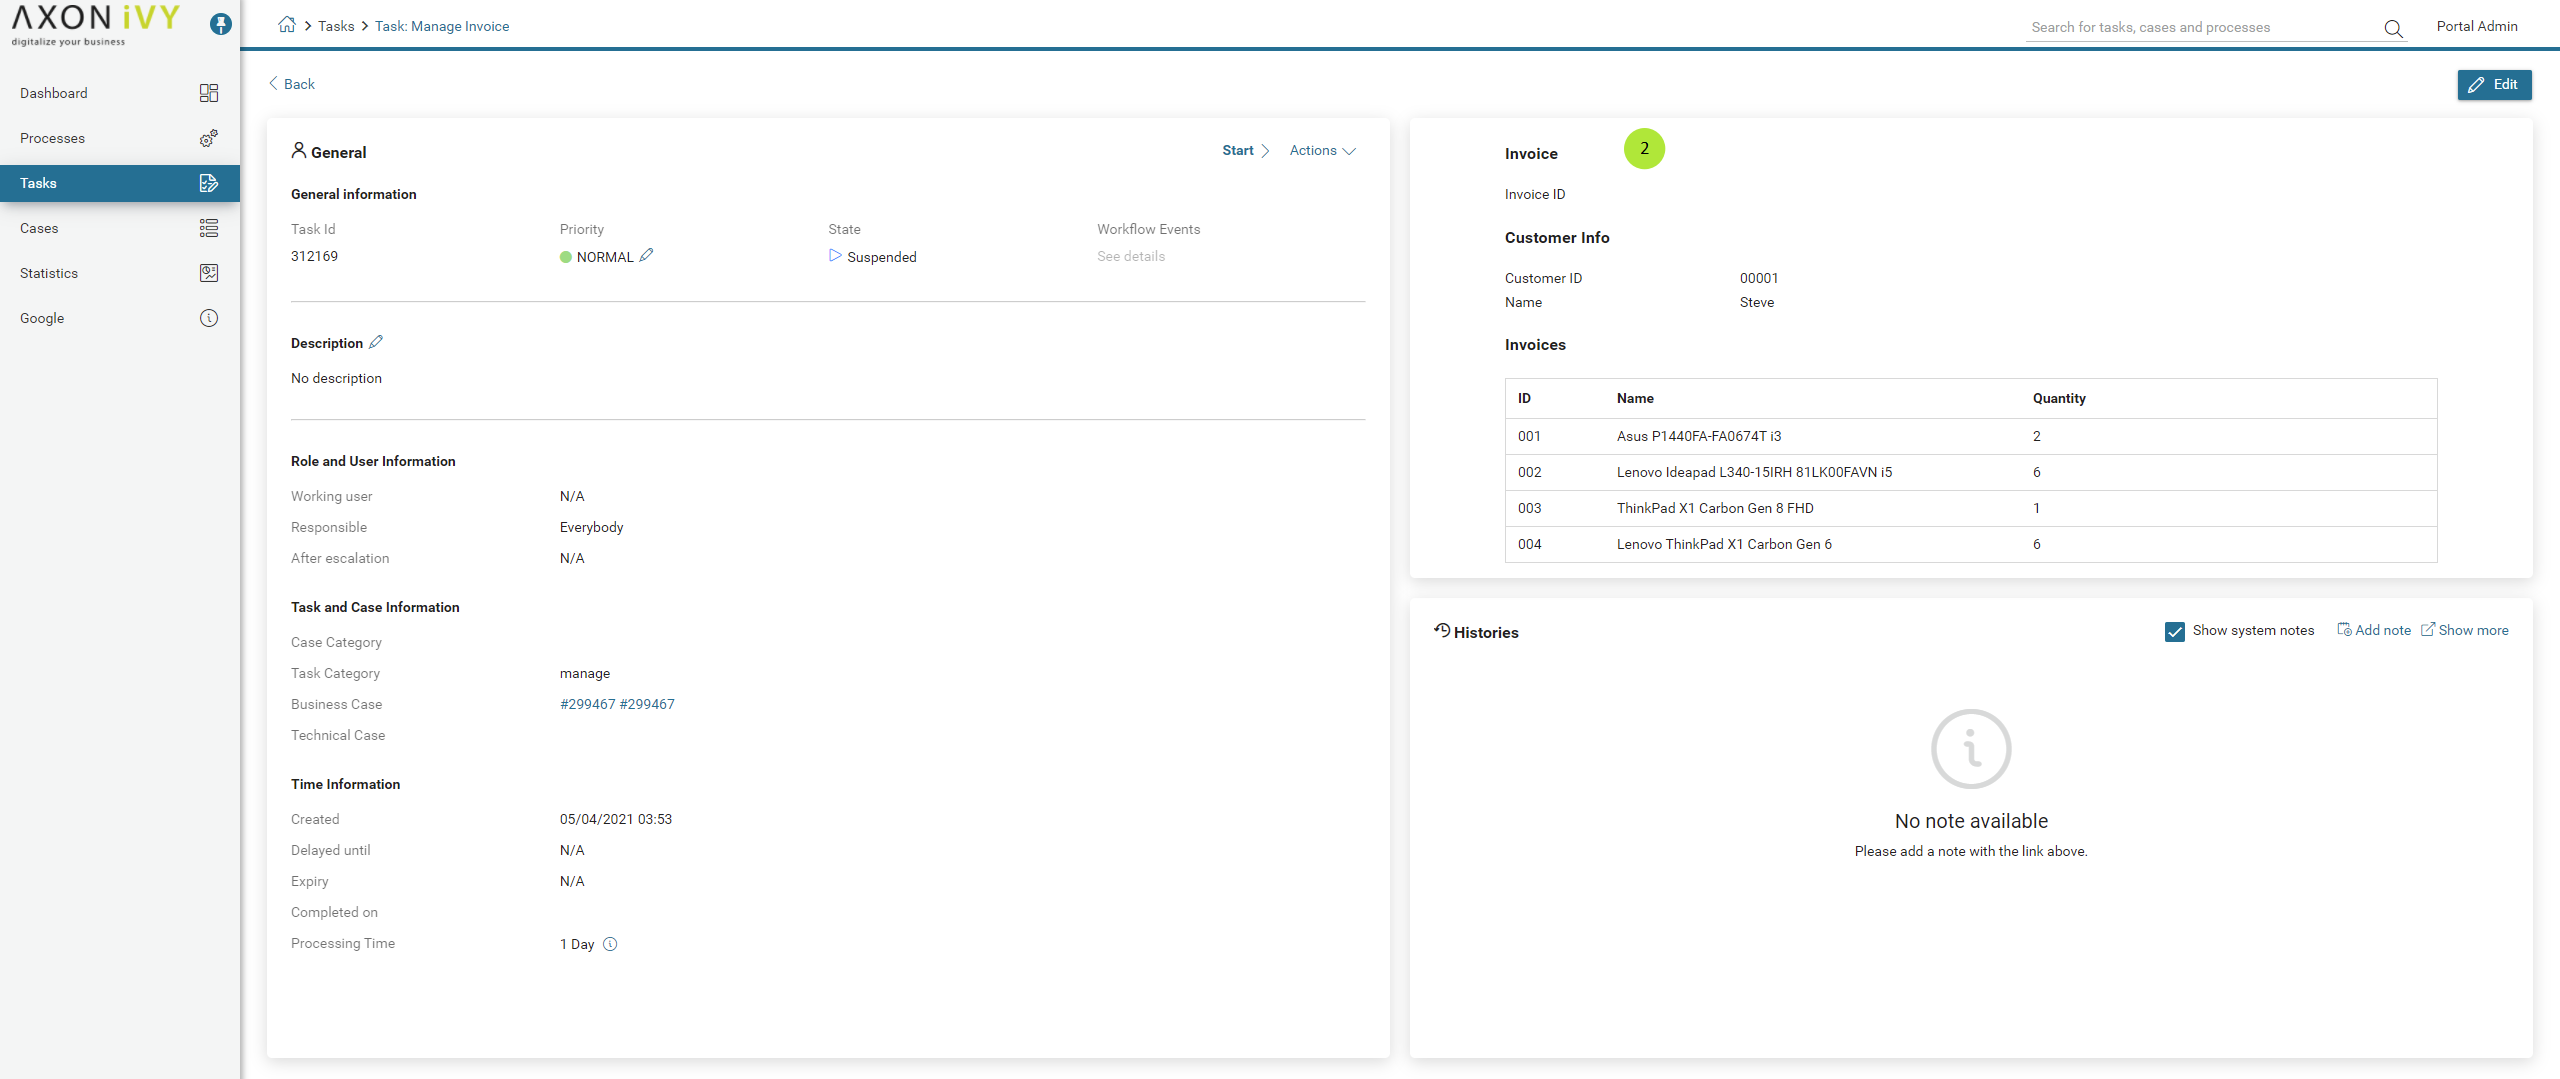
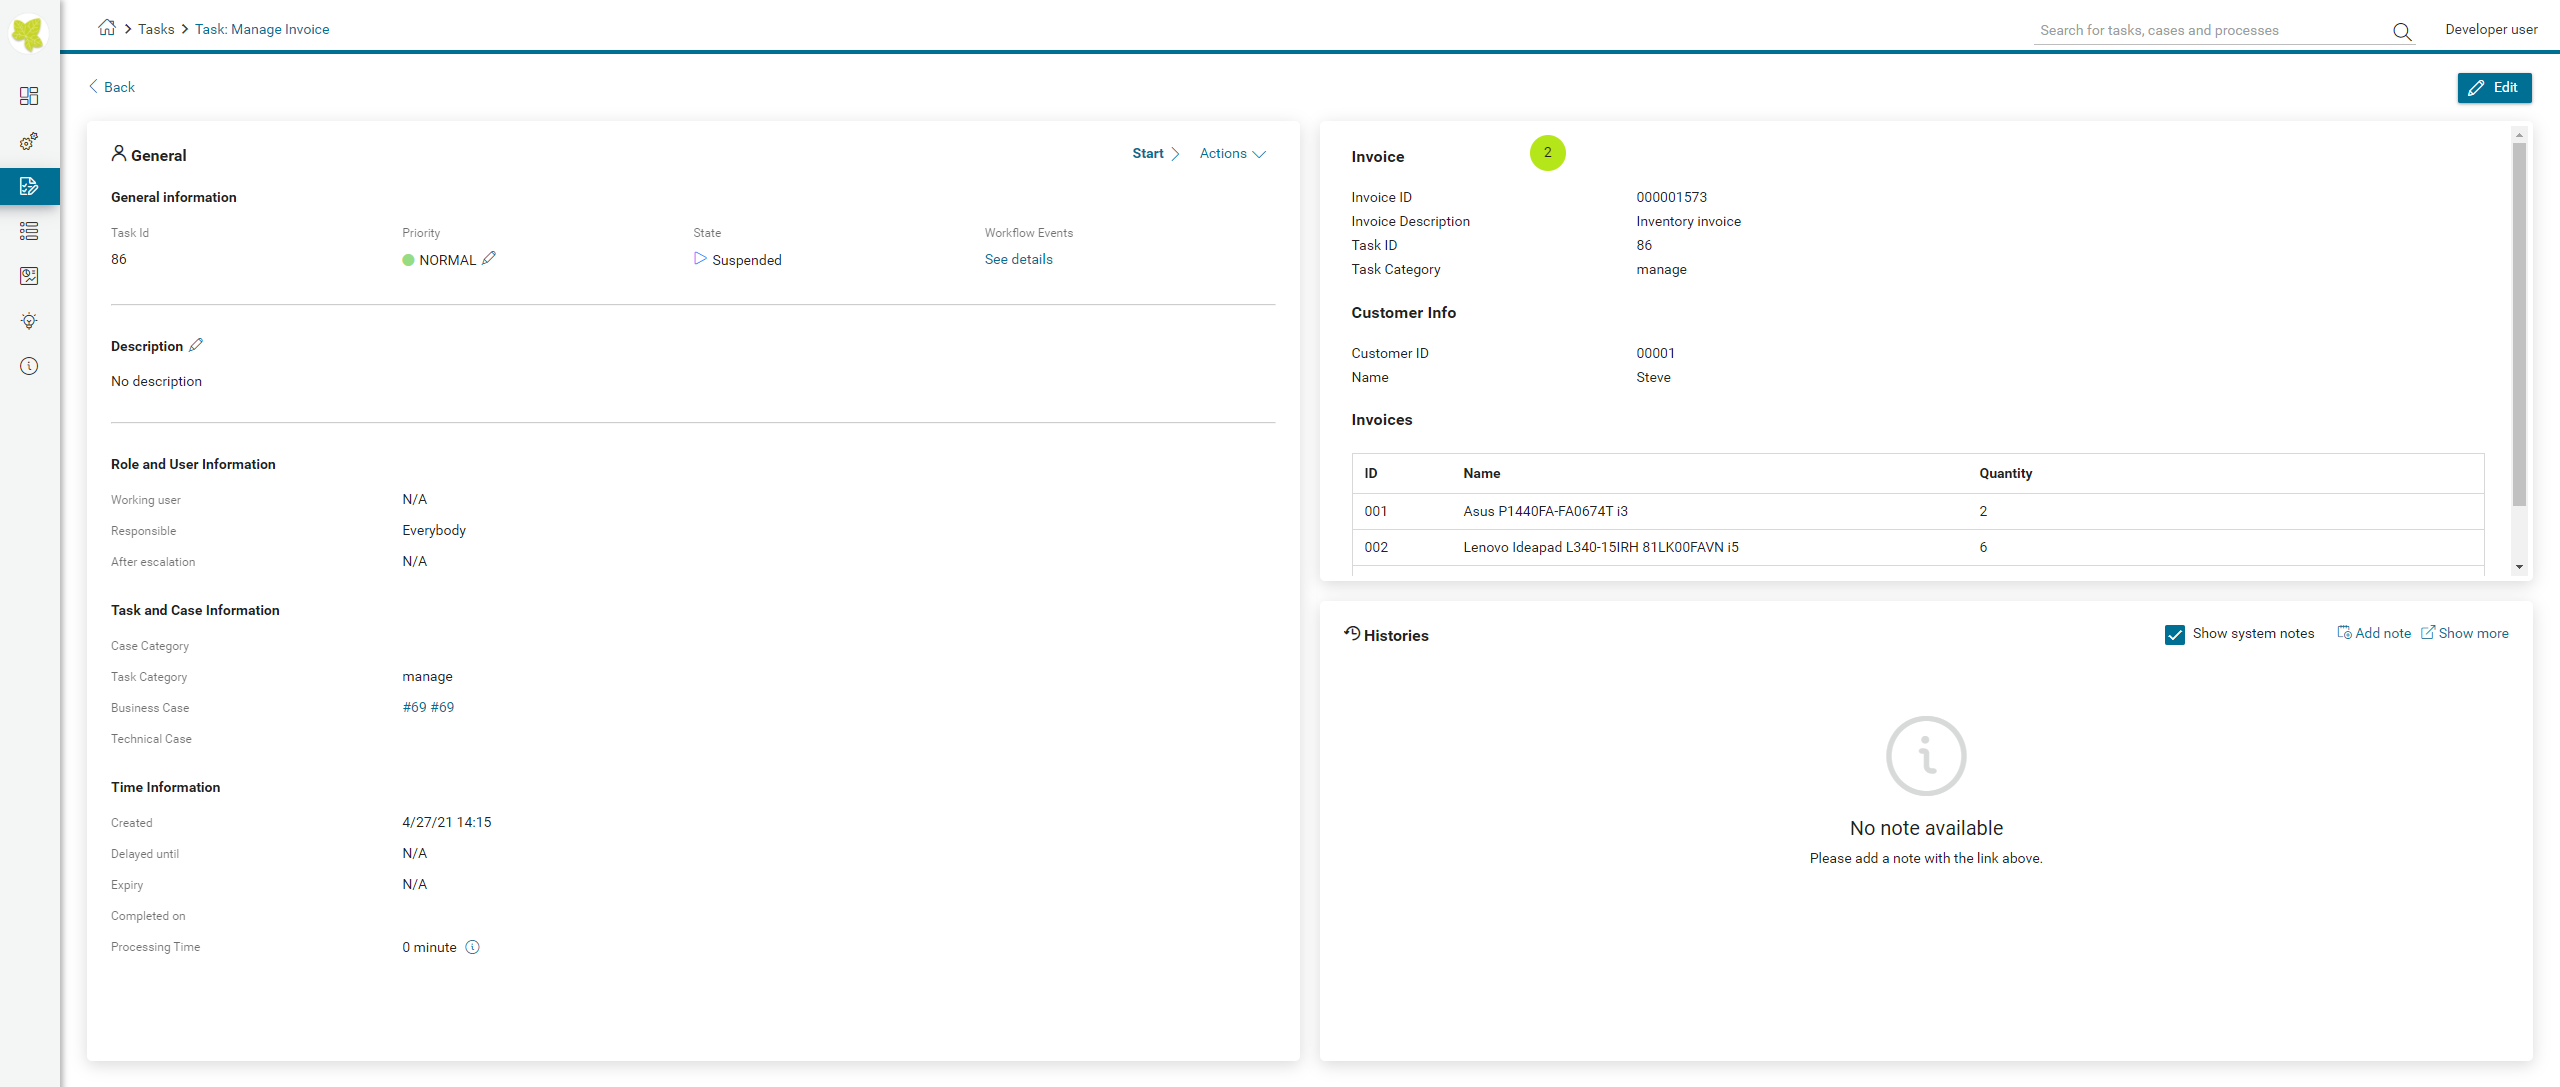
IVYPORTAL-12095: Enhance JSON configuration for URL of custom iframe in task details - Update document

diff --git a/Documentation/portal-guide/source/portal-developer-guide/customization/task-item-details.rst b/Documentation/portal-guide/source/portal-developer-guide/customization/task-item-details.rst
@@ -75,7 +75,10 @@ How to configure widgets in task details
                "data" : {
                   "processStart": "Start Processes/Sale/invoiceDetails.ivp",
                   "params": {
-                     "invoiceId": "000001573"
+                     "startedTaskId": "task.id",
+                     "startedTaskCategory": "task.category",
+                     "invoiceId": "000001573",
+                     "invoiceDescription": "custom.invoiceDescription"
                   }
                }
             }
@@ -111,13 +114,21 @@ How to configure widgets in task details
 
    ``data`` (for custom widget): data for custom widget using iframe
 
-   ``type`` (for data of custom widget): type of custom widget which is not using Iframe. There are two type ``taskItemDetailCustomPanelTop`` and ``taskItemDetailCustomPanelBottom``
+      ``type``: type of custom widget which is not using Iframe. There are two type ``taskItemDetailCustomPanelTop`` and ``taskItemDetailCustomPanelBottom``
 
-   ``url`` (for data of custom widget): URL for external website
+      ``url``: URL for external website
 
-   ``processStart`` (for data of custom widget): relative link to the ivy process which will be displayed in custom widget
+      ``processStart``: relative link to the ivy process which will be displayed in custom widget
 
-   ``param`` (for data of custom widget): paramters for ivy process above
+      ``params``: paramters for ivy process above, each parameter can be defined as follows:
+
+         - Key name that will be parameter name for ivy process above. Note: don't use ``taskId``.
+
+         - Key value for task: must start with ``task.``. Support 2 values: ``task.id``, ``task.category``.
+
+         - Key value for task custom fields: must start with ``custom.``, follow by custom field name.
+
+         - Other key value will be treated as hard code value.
 
 .. important::
    -  **Do not change** ``type`` of widgets.
@@ -329,7 +340,7 @@ There are **two steps** for adding new custom panels.
 
    -  Must input parameter ``ivy`` if you want to use ivy start process.
 
-   -  If you use ivy start process, you can predefine paramter for by parameter ``params``.
+   -  If you use ivy start process, you can predefine parameter for ``params``.
 
       Customized task details using external URL
 
@@ -388,15 +399,26 @@ There are **two steps** for adding new custom panels.
                      "x": 0, "y": 6, "w": 6, "h": 6
                      },
                      "data" : {
-                     "processStart": "Start Processes/Sale/invoiceDetails.ivp",
-                     "params": {
-                        "invoiceId": "000001573"
-                     }
+                        "processStart": "Start Processes/Sale/invoiceDetails.ivp",
+                        "params": {
+                           "startedTaskId": "task.id",
+                           "startedTaskCategory": "task.category",
+                           "invoiceId": "000001573",
+                           "invoiceDescription": "custom.invoiceDescription"
+                        }
                      }
                   }
                ]
                }
             ]
+
+      Provide task custom field
+
+      |task-customized-iframe-process-custom-field|
+
+      Map parameters to process data
+
+      |task-customized-iframe-process-input-mapping|
 
       Result
 
@@ -409,3 +431,5 @@ There are **two steps** for adding new custom panels.
 .. |edit-variable-portal-task-case-details| image:: images/customization/edit-variable-portal-task-case-details.png
 .. |task-customized-iframe-url| image:: images/customization/task-customized-iframe-url.png
 .. |task-customized-iframe-process| image:: images/customization/task-customized-iframe-process.png
+.. |task-customized-iframe-process-custom-field| image:: images/customization/task-customized-iframe-process-custom-field.png
+.. |task-customized-iframe-process-input-mapping| image:: images/customization/task-customized-iframe-process-input-mapping.png
